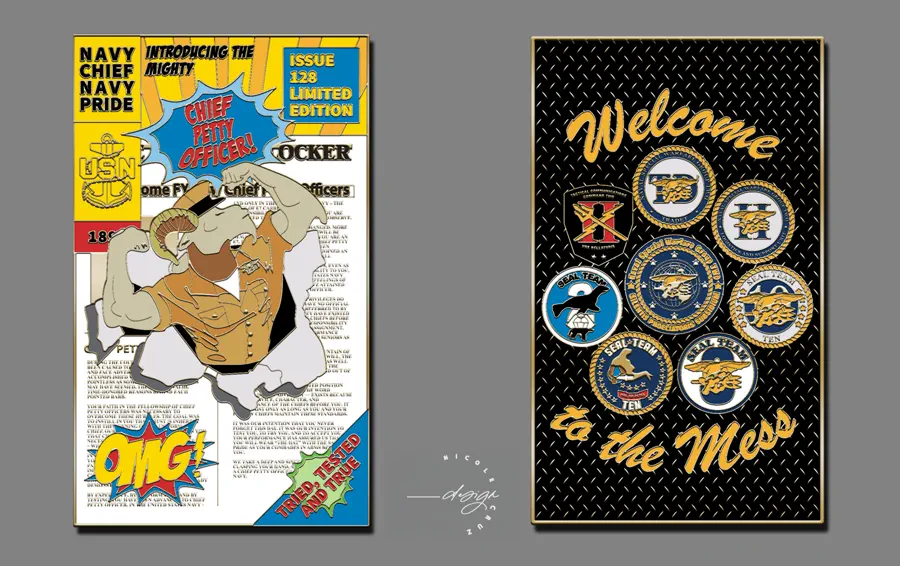
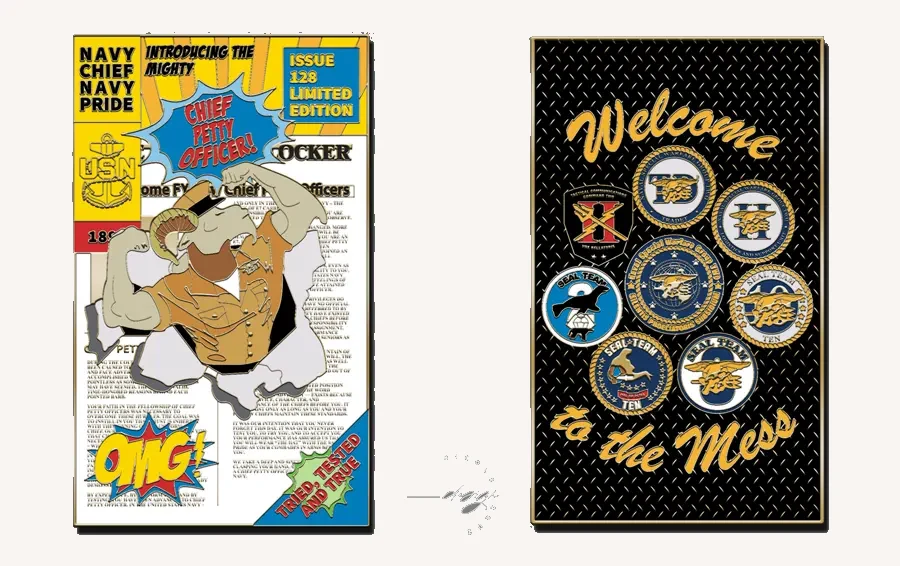
Lead Nicole's coins with one client type each, and drop their grey backdrop
Only the first three items of a section render on the page, and all three
were baseball coins, so the row sold one market when the blurb promises
three. It now opens with East Bay Legends, the King Neptune Navy coin, and
Caliber Collision: a sports team, a military unit, and a small business.

Promoting the two challenge coins exposed a problem that was easy to miss
while they sat in the modal. Nicole's export backdrop is a flat
rgb(130,130,130), and since those tiles render with fit: contain, the grey
showed as a hard rectangle floating inside a cream tile, right next to a
full-bleed photo. The backdrop is now flood-filled from the frame edge to
the canvas colour, so the coins sit directly on the tile. Filling from the
edge rather than matching on colour is what keeps the coins' own silver and
grey from being eaten, and their drop shadows survive intact. Same
treatment applied to the two coins still in the modal so they match.

Those four files changed content at unchanged paths, so their references
carry ?v=2: /images/* has a 24h max-age and the grey version is already
cached.

diff --git a/src/data/artists.js b/src/data/artists.js
@@ -150,8 +150,14 @@ export const artists = [
         id: 'hardware',
         title: 'Coins & pins',
         blurb: 'Engraved work for die-strike production: military units, sports teams, small businesses.',
+        // Only the first three show on the page, so they carry one of each
+        // market named in the blurb: a sports team, a military unit, and a
+        // small business. Sorting by client type beats sorting by sport, which
+        // read as eleven baseball coins and nothing else.
         items: [
           { src: '/images/art/nc-legends-10u-v2.webp', alt: 'East Bay Legends 10U baseball coin' },
+          { src: '/images/art/nc-king-neptune.webp?v=2', alt: 'King Neptune Navy challenge coin', fit: 'contain' },
+          { src: '/images/art/nc-caliber.webp?v=2', alt: 'Caliber Collision $1M Team West challenge coin', fit: 'contain' },
           { src: '/images/art/nc-legends-9u.webp', alt: 'East Bay Legends 9U baseball coin' },
           { src: '/images/art/nc-indios.webp', alt: 'Indios Baseball 14U coin' },
           { src: '/images/art/nc-cardinals-v2.webp', alt: 'Virginia Cardinals baseball coin' },
@@ -162,10 +168,8 @@ export const artists = [
           { src: '/images/art/nc-south-sf.webp', alt: 'South San Francisco baseball trading pin' },
           { src: '/images/art/nc-tullahoma.webp', alt: 'Tullahoma Fusion softball coin' },
           { src: '/images/art/nc-tribe.webp', alt: 'Tribe Baseball 12U coin' },
-          { src: '/images/art/nc-king-neptune.webp', alt: 'King Neptune Navy challenge coin', fit: 'contain' },
-          { src: '/images/art/nc-navy-chief.webp', alt: 'Navy Chief comic book challenge coin', fit: 'contain' },
-          { src: '/images/art/nc-sermc.webp', alt: 'SERMC Goat Locker challenge coin', fit: 'contain' },
-          { src: '/images/art/nc-caliber.webp', alt: 'Caliber Collision $1M Team West challenge coin', fit: 'contain' },
+          { src: '/images/art/nc-navy-chief.webp?v=2', alt: 'Navy Chief comic book challenge coin', fit: 'contain' },
+          { src: '/images/art/nc-sermc.webp?v=2', alt: 'SERMC Goat Locker challenge coin', fit: 'contain' },
         ],
       },
       {

diff --git a/docs/superpowers/HANDOFF.md b/docs/superpowers/HANDOFF.md
@@ -50,6 +50,7 @@ Acts: sketch hero (line-drawn mac window) → scroll: 17-tile mosaic pops in (7 
 
 **ArtistLayout block independence:** `gallery` (inline grid) and `archive` (button + modal) are now separate blocks, so an artist can have either, both, or neither. The archive control centres itself when there is no gallery above it and sits on the left margin when there is. Nicole's `sections` each carry their own per-section modal, wired generically by `data-archive-open`, so all three artists coexist in one layout.
 - **Nicole: page is BUILT but deliberately NOT live** (2026-07-28). Waiting on Alex to supply a proper **profile picture** — until then `portrait` is a placeholder (the East Bay Legends 10U coin); her own site's headshot is 156x262 and unusable. Real discipline is **"Brand identity & merchandise design"** (coins, apparel, stationery, team identity) — the old placeholder data called her "Mixed media & fine art", which was wrong. Her page uses a **new `sections` shape** (not `gallery`): six categories mirroring nicolecruzdesign.com/work — Team identity, Coins & pins, Invitations, Apparel, Digital, Logos & brand systems — plus a `caseStudy` block. `ArtistLayout` renders `sections`+`caseStudy` when present and falls back to `gallery`/`archive` otherwise, so Jon Marc and Bobbie are untouched. Per-item `fit: 'contain'` letterboxes wide pieces (wordmarks, front+back tee layouts, flyers) on `#F8F5F2` instead of cover-cropping them. **Her site numbers its sections ("01 · TEAM IDENTITY"); we deliberately do not** (house rule) and her AI-ish headline stack was collapsed to a plain title + one line.
+- **Nicole section ordering is deliberate:** only the first three items of a `sections` entry render on the page, the rest sit behind that section's modal, so item order is an editorial decision not a list. Team identity leads with the All Stars wordmark (the boldest), and Coins & pins leads with one of each market named in its blurb (sports, military, small business) rather than three baseball coins. Her four challenge-coin files had a flat `rgb(130,130,130)` export backdrop that read as a grey box inside the cream tile under `fit: 'contain'`; they are now flood-filled from the frame edge to the canvas colour (edge-flood, not colour-match, so the coins' own silver survives). If she sends replacements, they will need the same treatment.
 - **Nicole images are MIXED-SOURCE — see the big comment at the top of her entry in artists.js.** 33 tiles are local `/images/art/nc-*.webp` (built from `Nicole Images/`, untracked, 68MB of hi-res originals; ffmpeg longest-side 900px libwebp q78 → 3.7MB total). **20 tiles are still HOTLINKED** off her Netlify site because we have no source file — and those filenames are content hashes, so any rebuild on her end renames them and the tiles go blank. Still needed from Nicole: 8 apparel (Truman front/back, Mustangs black+coyote, WRNMMC, USS Detroit Chief's Mess, Vets Helping Vets, Neptune Beach cap, cap+tumbler), 5 digital (3 Tsunami IG posts, BestBet flyer, Pool web hero), 3 invitations, 2 branding (Full Count 32 logo, Tsunami stickers), 2 case-study stationery shots. Her Instagram/Behance/LinkedIn links are `href="#"` on her own site, so there are no socials to link yet.
 - Gallery tiles: 4/5 (1200x1500), archive tiles square 1200; logos get `contain` on canvas `#F8F5F2` with 70-80px margin, full-bleed art gets `cover`. sharp scripts pattern: `createRequire('file:///D:/K%20&%20A%20Performance%20Site/package.json')('sharp')` from any scratch dir.
 
